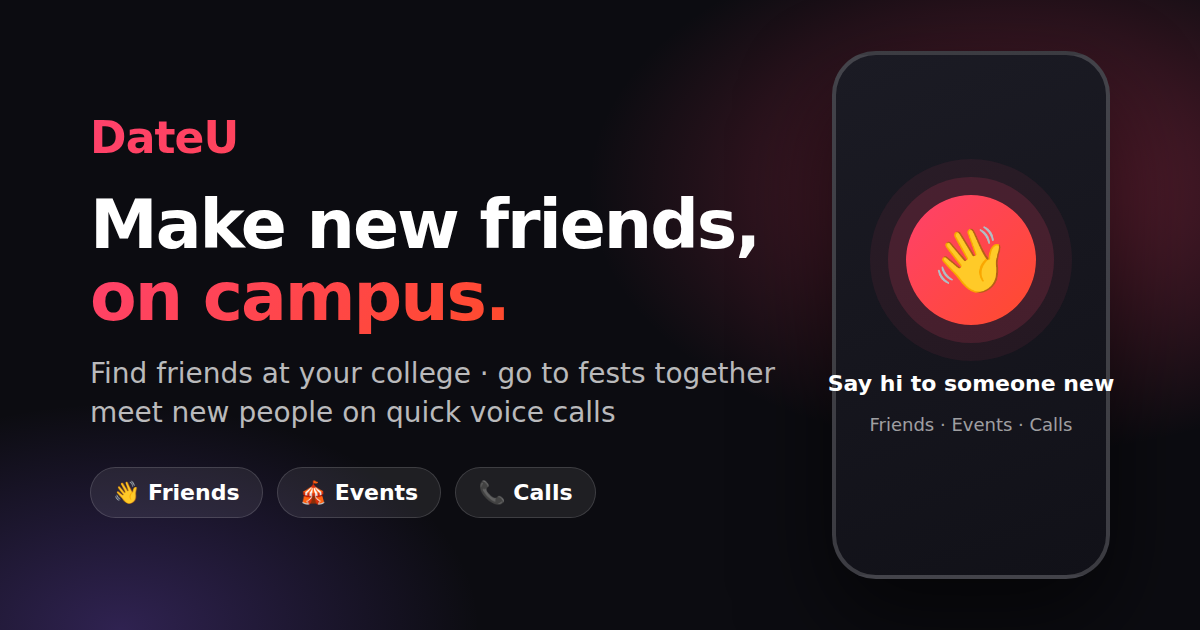
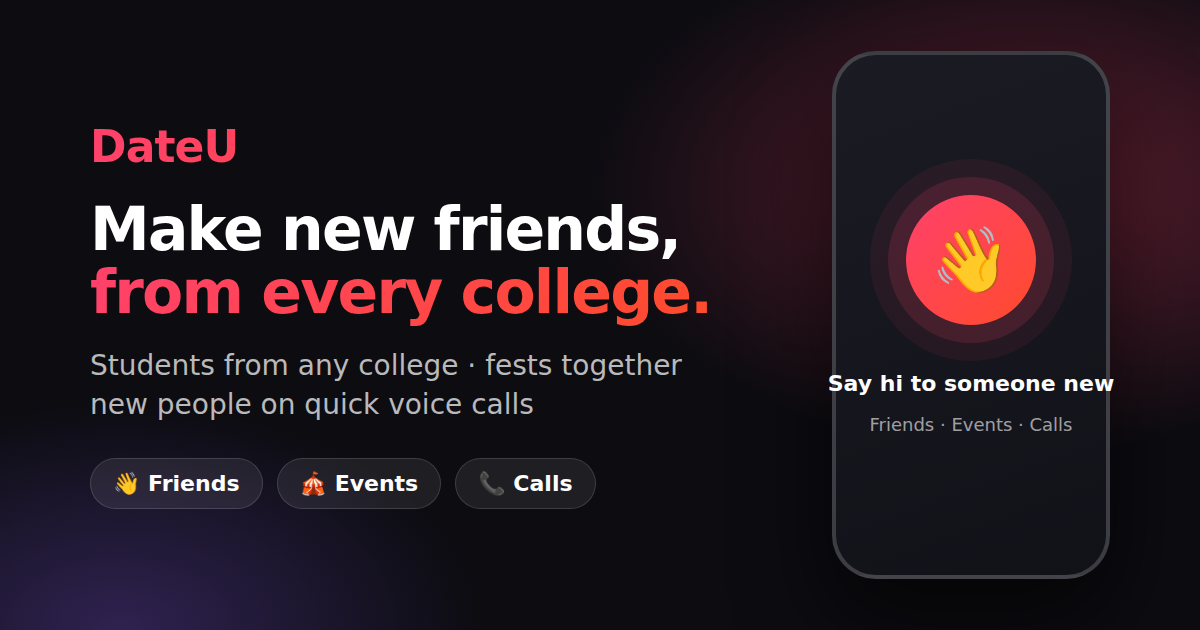
Friends from every college, not just your own campus
- Landing, share image, meta, manifest, FAQ, footer, campus/blog pages,
  app copy and the relaunch email now say DateU is for making friends
  with students from any college
- Friends opens on 'All colleges' by default ('My college' is a filter)

Claude-Session: https://claude.ai/code/session_01DUFrJLtRFuZzdP3t9LCYkZ

diff --git a/marketing/emails/relaunch.html b/marketing/emails/relaunch.html
@@ -4,7 +4,7 @@
   <meta charset="UTF-8" />
   <meta name="viewport" content="width=device-width, initial-scale=1.0" />
   <meta name="color-scheme" content="light only" />
-  <title>DateU – make new friends on campus</title>
+  <title>DateU – make new friends from every college</title>
   <!--
     DateU relaunch email for Brevo.
     Brevo: Campaign > Design > "Code your own" (HTML) > paste this whole file.
@@ -25,7 +25,7 @@
 <body style="margin:0;padding:0;background:#f3f1f6;">
   <!-- Preview text (shown next to the subject in the inbox) -->
   <div style="display:none;max-height:0;overflow:hidden;opacity:0;color:#f3f1f6;font-size:1px;line-height:1px;">
-    Friends, events and quick voice calls — for students on your campus.&nbsp;&zwnj;&nbsp;&zwnj;&nbsp;&zwnj;&nbsp;&zwnj;&nbsp;&zwnj;&nbsp;&zwnj;&nbsp;&zwnj;&nbsp;&zwnj;
+    Friends from every college, events and quick voice calls — for students.&nbsp;&zwnj;&nbsp;&zwnj;&nbsp;&zwnj;&nbsp;&zwnj;&nbsp;&zwnj;&nbsp;&zwnj;&nbsp;&zwnj;&nbsp;&zwnj;
   </div>
 
   <table role="presentation" width="100%" cellpadding="0" cellspacing="0" border="0" style="background:#f3f1f6;">
@@ -55,7 +55,7 @@
           <tr>
             <td class="px" style="padding:12px 36px 0;">
               <a href="https://dateu.in/?utm_source=email&amp;utm_campaign=relaunch&amp;utm_content=hero">
-                <img src="https://dateu.in/og-image.png?v=2" width="528" alt="DateU – make new friends on campus" style="display:block;width:100%;max-width:528px;height:auto;border:0;border-radius:14px;" />
+                <img src="https://dateu.in/og-image.png?v=3" width="528" alt="DateU – make new friends from every college" style="display:block;width:100%;max-width:528px;height:auto;border:0;border-radius:14px;" />
               </a>
             </td>
           </tr>
@@ -67,7 +67,7 @@
                 Hey {{ contact.FIRSTNAME | default : "there" }}, DateU is now about making friends 👋
               </h1>
               <p style="margin:0;font-size:16px;line-height:25px;color:#4a4658;">
-                College is better with your people. DateU is now the easiest way to meet new students on your campus — find friends who share your vibe, go to fests and events together, and talk to someone new on a quick voice call.
+                College is better with your people. DateU is now the easiest way to meet new students — from your own college or any other — find friends who share your vibe, go to fests and events together, and talk to someone new on a quick voice call.
               </p>
             </td>
           </tr>
@@ -101,8 +101,8 @@
                 <tr>
                   <td width="52" valign="top" style="padding:0 0 18px;font-size:28px;line-height:32px;">👋</td>
                   <td valign="top" style="padding:0 0 18px;">
-                    <p style="margin:0 0 3px;font-size:16px;font-weight:700;color:#15131c;">Friends on your campus</p>
-                    <p style="margin:0;font-size:14px;line-height:21px;color:#5b576a;">See students from your college who like what you like, and send a friend request with a quick hello.</p>
+                    <p style="margin:0 0 3px;font-size:16px;font-weight:700;color:#15131c;">Friends from every college</p>
+                    <p style="margin:0;font-size:14px;line-height:21px;color:#5b576a;">See students from any college who like what you like, and send a friend request with a quick hello.</p>
                   </td>
                 </tr>
                 <tr>
@@ -166,8 +166,8 @@
           <!-- Sign-off -->
           <tr>
             <td class="px" style="padding:26px 36px 30px;font-family:Arial,Helvetica,sans-serif;color:#4a4658;font-size:15px;line-height:23px;">
-              <p style="margin:0 0 14px;">See you on campus,<br /><b style="color:#15131c;">Lucky</b><br /><span style="color:#8a8697;font-size:13px;">Founder, DateU · IIT Delhi</span></p>
-              <p style="margin:0;font-size:14px;color:#6b6779;">P.S. What would make DateU better for your college? Just hit reply — I read every message.</p>
+              <p style="margin:0 0 14px;">See you on DateU,<br /><b style="color:#15131c;">Lucky</b><br /><span style="color:#8a8697;font-size:13px;">Founder, DateU · IIT Delhi</span></p>
+              <p style="margin:0;font-size:14px;color:#6b6779;">P.S. What would make DateU better for you? Just hit reply — I read every message.</p>
             </td>
           </tr>
         </table>

diff --git a/index.html b/index.html
@@ -15,8 +15,8 @@
     <link rel="apple-touch-icon" href="/icons/apple-touch-icon.png" />
 
     <link href="https://fonts.googleapis.com/css2?family=Poppins:wght@400;600;700&display=swap" rel="stylesheet">
-    <title>DateU – Make New Friends on Campus | College Students in India</title>
-    <meta name="description" content="DateU is the social app for college students in India — make new friends on campus, find buddies for fests and events, and meet people on quick voice calls. Dating is optional. Free, safe and made for students." />
+    <title>DateU – Make New Friends | The Social App for College Students in India</title>
+    <meta name="description" content="DateU is the social app for college students in India — make new friends from any college, find buddies for fests and events, and meet people on quick voice calls. Dating is optional. Free, safe and made for students." />
     <link rel="canonical" href="https://dateu.in/" />
     <meta name="robots" content="index, follow, max-image-preview:large" />
 
@@ -25,17 +25,17 @@
     <meta property="og:type" content="website" />
     <meta property="og:site_name" content="DateU" />
     <meta property="og:url" content="https://dateu.in/" />
-    <meta property="og:title" content="DateU – Make new friends on campus" />
-    <meta property="og:description" content="Find friends at your college, go to fests and events together, and meet new people on quick voice calls. The social app for students." />
-    <meta property="og:image" content="https://dateu.in/og-image.png?v=2" />
+    <meta property="og:title" content="DateU – Make new friends from every college" />
+    <meta property="og:description" content="Meet students from any college, go to fests and events together, and meet new people on quick voice calls. The social app for students." />
+    <meta property="og:image" content="https://dateu.in/og-image.png?v=3" />
     <meta property="og:image:width" content="1200" />
     <meta property="og:image:height" content="630" />
-    <meta property="og:image:alt" content="DateU – make new friends on campus" />
+    <meta property="og:image:alt" content="DateU – make new friends from every college" />
     <meta property="og:locale" content="en_IN" />
     <meta name="twitter:card" content="summary_large_image" />
-    <meta name="twitter:title" content="DateU – Make new friends on campus" />
-    <meta name="twitter:description" content="Find friends at your college, go to fests and events together, and meet new people on quick voice calls. The social app for students." />
-    <meta name="twitter:image" content="https://dateu.in/og-image.png?v=2" />
+    <meta name="twitter:title" content="DateU – Make new friends from every college" />
+    <meta name="twitter:description" content="Meet students from any college, go to fests and events together, and meet new people on quick voice calls. The social app for students." />
+    <meta name="twitter:image" content="https://dateu.in/og-image.png?v=3" />
 
     <!-- Structured data: who we are, for Google -->
     <script type="application/ld+json">
@@ -86,8 +86,8 @@
   <body>
     <div id="root"><div id="launch"><div class="logo">DateU</div><div class="dots"><span></span><span></span><span></span></div></div></div>
     <noscript>
-      <h1>DateU – Campus Dating for Verified College Students in India</h1>
-      <p>DateU helps college students meet through free curated matching rounds, 5-minute random voice calls and private chat. Profiles are verified with a college ID. Please enable JavaScript to use DateU.</p>
+      <h1>DateU – Make New Friends: The Social App for College Students in India</h1>
+      <p>DateU helps college students make new friends from any college — Friends, events, quick voice calls and chat, with optional dating. Please enable JavaScript to use DateU.</p>
     </noscript>
     <script type="module" src="/src/main.tsx"></script>
   </body>

diff --git a/src/components/home/Landing/Landing.tsx b/src/components/home/Landing/Landing.tsx
@@ -43,9 +43,9 @@ export function LandingHero() {
       <div className="ld-wrap ld-hero-grid">
         <div className="ld-hero-copy">
           <span className="ld-badge"><span className="ld-dot" /> Made for college students</span>
-          <h1>Make new friends, <span>on campus.</span></h1>
+          <h1>Make new friends, <span>from every college.</span></h1>
           <p className="ld-lead">
-            Find people from your college who share your vibe, go to fests and events together, and meet someone new on a quick voice call. Dating is there too — if you want it.
+            Meet students from any college who share your vibe — from your own campus or across the city. Go to fests and events together, and meet someone new on a quick voice call. Dating is there too — if you want it.
           </p>
           <div className="ld-ctas">
             <button type="button" className="ld-btn" onClick={go} disabled={busy}>
@@ -73,7 +73,7 @@ export function LandingHero() {
             <div className="ld-screen">
               <div className="ld-screen-head">
                 <strong>Friends</strong>
-                <span className="ld-seg"><i className="on">My college</i><i>All</i></span>
+                <span className="ld-seg"><i className="on">All colleges</i><i>Mine</i></span>
               </div>
               {PEOPLE.map((p) => (
                 <div key={p.n} className="ld-person">
@@ -98,7 +98,7 @@ export function LandingHero() {
 }
 
 const FEATURES = [
-  { e: '👋', h: 'Friends on your campus', p: 'Browse students from your college and nearby campuses, see shared interests and send a friend request with a quick hello.', big: true },
+  { e: '👋', h: 'Friends from any college', p: 'Browse students from every college — or just your own — see shared interests and send a friend request with a quick hello.', big: true },
   { e: '🎪', h: 'Events & fests', p: 'Find your garba partner, fest crew, trek buddy or hackathon team. See who’s going before you go.', big: true },
   { e: '📞', h: 'Quick voice calls', p: 'Talk to someone new for 5 minutes — voice only, no pressure. Both tap like and keep chatting.' },
   { e: '💬', h: 'Chat & calls with friends', p: 'Messages, voice notes and calls in one place, with read receipts you control.' },
@@ -110,7 +110,7 @@ export function LandingFeatures() {
     <section className="ld-section" id="features">
       <div className="ld-wrap">
         <div className="ld-head">
-          <span className="ld-eyebrow">One app for campus life</span>
+          <span className="ld-eyebrow">One app for student life</span>
           <h2>Everything you need to meet new people</h2>
         </div>
         <div className="ld-features">
@@ -167,7 +167,7 @@ export function LandingEvents() {
 const STEPS = [
   { n: '1', h: 'Sign in with Google', p: 'Add a photo, your college and what you’re into. Takes about a minute.' },
   { n: '2', h: 'Say hi', p: 'Send a friend request, join an event or hop on a random voice call.' },
-  { n: '3', h: 'Hang out', p: 'Chat, call and make plans — then meet up on campus.' },
+  { n: '3', h: 'Hang out', p: 'Chat, call and make plans — then meet up.' },
 ]
 
 export function LandingSteps() {
@@ -250,7 +250,7 @@ export function LandingFinal() {
     <section className="ld-section">
       <div className="ld-wrap">
         <div className="ld-final">
-          <h2>Your next friend is on campus 👋</h2>
+          <h2>Your next friend is one hello away 👋</h2>
           <p>Join free, say hi to new people, and never go to a fest alone again.</p>
           <button type="button" className="ld-btn" onClick={go} disabled={busy}>
             {busy ? 'Signing in…' : signedIn ? 'Open DateU' : 'Join DateU — it’s free'}

diff --git a/src/pages/dashboard/Friends.tsx b/src/pages/dashboard/Friends.tsx
@@ -55,7 +55,7 @@ export default function FriendsPage() {
   const [requests, setRequests] = useState<FriendRequest[]>([])
   const [blocked, setBlocked] = useState<Set<string>>(new Set())
   const [profiles, setProfiles] = useState<Record<string, Person>>({})
-  const [scope, setScope] = useState<'college' | 'all'>('college')
+  const [scope, setScope] = useState<'college' | 'all'>('all')
   const [busy, setBusy] = useState<string | null>(null)
   const [enabling, setEnabling] = useState(false)
   const [sayHiTo, setSayHiTo] = useState<Person | null>(null)
@@ -141,7 +141,7 @@ export default function FriendsPage() {
   const header = (
     <div className="fr-head">
       <h1 className="fr-title">Friends</h1>
-      <p className="fr-sub">Meet students from your campus — study buddies, gym partners, people to explore the city with.</p>
+      <p className="fr-sub">Meet students from any college — study buddies, gym partners, people to explore the city with.</p>
     </div>
   )
 
@@ -159,7 +159,7 @@ export default function FriendsPage() {
     body = (
       <div className="fr-optin">
         <div className="fr-optin-art" aria-hidden="true">👋</div>
-        <h2>Make friends on campus</h2>
+        <h2>Make new friends</h2>
         <ul>
           <li><strong>Students only</strong> — everyone here is a college student.</li>
           <li><strong>Not dating</strong> — this is for friendships, study groups and plans.</li>
@@ -184,8 +184,8 @@ export default function FriendsPage() {
         {tab === 'discover' && (
           <>
             <div className="fr-scope">
-              <button className={scope === 'college' ? 'on' : ''} onClick={() => setScope('college')}>{me.college ? `My college` : 'My college'}</button>
               <button className={scope === 'all' ? 'on' : ''} onClick={() => setScope('all')}>All colleges</button>
+              <button className={scope === 'college' ? 'on' : ''} onClick={() => setScope('college')}>My college</button>
             </div>
             {loadingPeople ? (
               <div className="fr-grid">{[0, 1, 2, 3].map((i) => <div key={i} className="fr-card skeleton" />)}</div>
@@ -193,7 +193,7 @@ export default function FriendsPage() {
               <EmptyState
                 icon="sparkle"
                 title={scope === 'college' ? `No one new from ${me.college || 'your college'} yet` : 'You’ve seen everyone for now'}
-                text={scope === 'college' ? 'Try All colleges, or invite friends from your campus — they’ll show up here.' : 'New students join every day. Check back soon, or invite your friends.'}
+                text={scope === 'college' ? 'Try All colleges, or invite your friends — they’ll show up here.' : 'New students join every day. Check back soon, or invite your friends.'}
                 actions={scope === 'college'
                   ? [{ label: 'Show all colleges', onClick: () => setScope('all') }]
                   : [{ label: 'Invite friends', to: '/dashboard/' + (me.gender === 'female' ? 'female' : 'male') + '/profile' }]}

diff --git a/src/pages/marketing/CampusPages.tsx b/src/pages/marketing/CampusPages.tsx
@@ -24,7 +24,7 @@ export function CampusIndexPage() {
       <main className="mk">
         <div className="mk-wrap">
           <span className="mk-eyebrow">Colleges</span>
-          <h1>Friends at <span>your campus</span></h1>
+          <h1>Friends from <span>every college</span></h1>
           <p className="mk-lead">
             DateU is built for college students. Pick your college to see how DateU works there — or just sign up
             and choose it during setup.
@@ -112,7 +112,7 @@ export function CampusPage() {
           <span className="mk-eyebrow">{c.area}</span>
           <h1>Make friends at <span>{c.short}</span></h1>
           <p className="mk-lead">
-            Meet genuine, verified students from {c.name} and nearby colleges. Find people who share your interests,
+            Meet genuine, verified students from {c.name} and every other college. Find people who share your interests,
             go to fests and events together, and talk on quick voice calls. Dating is there too, if you want it.
           </p>
           <div className="mk-cta-row">
@@ -128,8 +128,8 @@ export function CampusPage() {
             </div>
             <div className="mk-card">
               <div className="mk-card-icon">👋</div>
-              <h3>Friends on campus</h3>
-              <p>Browse {c.short} students who share your interests and send a friend request with a quick hello.</p>
+              <h3>Friends from every college</h3>
+              <p>Browse students from {c.short} and every other college who share your interests, and send a friend request with a quick hello.</p>
             </div>
             <div className="mk-card">
               <div className="mk-card-icon">📞</div>
@@ -143,7 +143,7 @@ export function CampusPage() {
             <ol>
               <li><strong>Sign up with Google</strong> and pick {c.name} as your college.</li>
               <li><strong>Build your profile</strong> — a few photos, a short bio and your interests.</li>
-              <li><strong>Say hi</strong> to {c.short} students in Friends, join an event, or start a random voice call any time.</li>
+              <li><strong>Say hi</strong> to students from {c.short} or any other college, join an event, or start a random voice call any time.</li>
               <li><strong>Hang out.</strong> Chat, make plans and meet up near {c.area.split(',')[0]}.</li>
             </ol>
           </div>

diff --git a/src/components/home/FAQ/FAQ.tsx b/src/components/home/FAQ/FAQ.tsx
@@ -4,11 +4,11 @@ import "./FAQ.styles.css";
 const FAQS = [
   {
     q: "Is DateU a dating app?",
-    a: "DateU is for making new friends and connections on campus. Friends, events, chat and voice calls are the heart of it. Dating is an optional extra you can turn on in the Dating tab — or ignore completely.",
+    a: "DateU is for making new friends and connections with students from any college. Friends, events, chat and voice calls are the heart of it. Dating is an optional extra you can turn on in the Dating tab — or ignore completely.",
   },
   {
     q: "How do I make friends on DateU?",
-    a: "Open Friends, browse students from your college or nearby campuses, and send a friend request with a short hello. Once they accept, you can chat and call.",
+    a: "Open Friends, browse students from any college (or filter to your own), and send a friend request with a short hello. Once they accept, you can chat and call.",
   },
   {
     q: "What are events?",

diff --git a/src/pages/dashboard/male/Profile.tsx b/src/pages/dashboard/male/Profile.tsx
@@ -119,7 +119,7 @@ function ReferralCard({ user }: { user: any }) {
               if (referralDiscount > 0) { nav('/dashboard/plans?redeem=true'); return }
               if (!user?.referralCode) return
               const link = `${window.location.origin}/?ref=${user.referralCode}`
-              const text = `Join me on DateU 👋 — the app to make new friends on campus, find people for fests and events, and meet new people. Use my code ${user.referralCode} when you sign up:`
+              const text = `Join me on DateU 👋 — the app to make new friends from any college, find people for fests and events, and meet new people. Use my code ${user.referralCode} when you sign up:`
               // Native share sheet on phones; copy the link elsewhere
               if (navigator.share) {
                 try { await navigator.share({ title: 'DateU', text, url: link }) } catch { }

diff --git a/src/utils/seo.ts b/src/utils/seo.ts
@@ -1,8 +1,8 @@
 import { useEffect } from 'react'
 
 export const SITE_URL = 'https://dateu.in'
-const DEFAULT_TITLE = 'DateU – Make New Friends on Campus | College Students in India'
-const DEFAULT_DESC = 'DateU is the social app for college students in India — make new friends on campus, find buddies for fests and events, and meet people on quick voice calls. Dating is optional.'
+const DEFAULT_TITLE = 'DateU – Make New Friends | The Social App for College Students in India'
+const DEFAULT_DESC = 'DateU is the social app for college students in India — make new friends from any college, find buddies for fests and events, and meet people on quick voice calls. Dating is optional.'
 
 function setMeta(attr: 'name' | 'property', key: string, value: string) {
   let el = document.head.querySelector<HTMLMetaElement>(`meta[${attr}="${key}"]`)

diff --git a/src/pages/dashboard/ProfileTab.tsx b/src/pages/dashboard/ProfileTab.tsx
@@ -212,7 +212,7 @@ export default function ProfileTab({ referral }: { referral?: React.ReactNode })
               <span className="pt-row-icon"><Icon><path d="M17 21v-2a4 4 0 0 0-4-4H5a4 4 0 0 0-4 4v2" /><circle cx="9" cy="7" r="4" /><path d="M23 21v-2a4 4 0 0 0-3-3.87" /><path d="M16 3.13a4 4 0 0 1 0 7.75" /></Icon></span>
               <span className="pt-row-body">
                 <span className="pt-row-title">Friends</span>
-                <span className="pt-row-sub">{p.friendsVisible ? 'You’re visible to other students' : 'Turn on to make friends on campus'}</span>
+                <span className="pt-row-sub">{p.friendsVisible ? 'You’re visible to other students' : 'Turn on to make new friends'}</span>
               </span>
               <Chevron />
             </button>

diff --git a/src/pages/marketing/CareersPage.tsx b/src/pages/marketing/CareersPage.tsx
@@ -22,7 +22,7 @@ export default function CareersPage() {
                         <span style={{ color: '#fb7185' }}>Connection</span>
                     </h1>
                     <p style={{ fontSize: '1.25rem', color: '#d1d5db', maxWidth: '672px', margin: '0 auto', lineHeight: '1.6' }}>
-                        We're a team of students from IIT Delhi making it easy for students to meet new people. Join us in building the social app for campus life.
+                        We're a team of students from IIT Delhi making it easy for students to meet new people. Join us in building the social app for student life.
                     </p>
                 </div>
 

diff --git a/src/pages/marketing/BlogPage.tsx b/src/pages/marketing/BlogPage.tsx
@@ -94,8 +94,8 @@ export function BlogPostPage() {
           </div>
 
           <div className="mk-final">
-            <h2>Meet people from your campus</h2>
-            <p>Make friends on campus, find event buddies and talk on quick voice calls — made for college students.</p>
+            <h2>Meet people from every college</h2>
+            <p>Make new friends from any college, find event buddies and talk on quick voice calls — made for students.</p>
             <JoinButton />
           </div>
 

diff --git a/vite.config.ts b/vite.config.ts
@@ -12,7 +12,7 @@ export default defineConfig({
       manifest: {
         name: 'DateU',
         short_name: 'DateU',
-        description: 'Make new friends on campus — friends, events, calls and chat for college students.',
+        description: 'Make new friends from any college — friends, events, calls and chat for students.',
         start_url: '/dashboard',
         scope: '/',
         display: 'standalone',           // app-style window (no Chrome UI)
